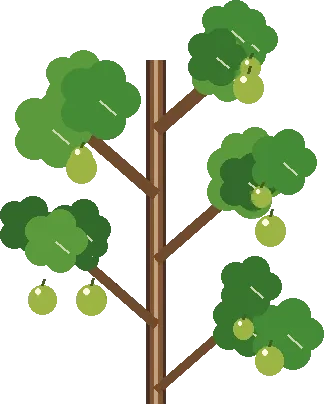
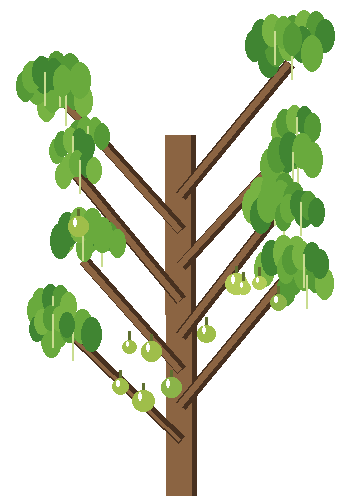
溫室樹圖（友軍第二版，test.html）：剪枝／座果／採收換新圖，新增度冬圖 fig-winter；程式只改 2 行選圖
Claude-Session: https://claude.ai/code/session_01CqeieRWMUFwXZe9jxa6gye

diff --git a/test.html b/test.html
@@ -4912,13 +4912,13 @@ function ghShadow(cx, pj, x, z, h){ const p = pj(x+.45, 0, z+.25); if(!p || p.s 
 // 素材只要換 art/gh/ 裡的圖檔即可，不用改程式：fig-<階段>.webp 為主圖，可另加 fig-<階段>-2.webp、-3.webp 當變化（沒有就自動略過）
 const GH_ART = (()=>{
   const out={};
-  for(const key of ['prune','set','ripe']){
+  for(const key of ['prune','set','ripe','winter']){
     out[key] = ['', '-2', '-3'].map(v=>{ const im=new Image(); im.decoding='async'; im.src='art/gh/fig-'+key+v+'.webp'; return im; });
   }
   return out;
 })();
 function drawFigTree(cx, pj, x, z, s, stage, seed, rustle){
-  const pool = GH_ART[(stage==='剪枝'||stage==='度冬')?'prune':stage==='座果'?'set':'ripe'].filter(im=>im.complete && im.naturalWidth>0);
+  const pool = GH_ART[stage==='度冬'?'winter':stage==='剪枝'?'prune':stage==='座果'?'set':'ripe'].filter(im=>im.complete && im.naturalWidth>0);
   const sprite = pool.length ? pool[Math.abs(seed|0) % pool.length] : {complete:false};
   if(sprite.complete && sprite.naturalWidth>0){
     const T=stageTree(stage), foot=pj(x,0,z), crown=pj(x,T.h,z);
